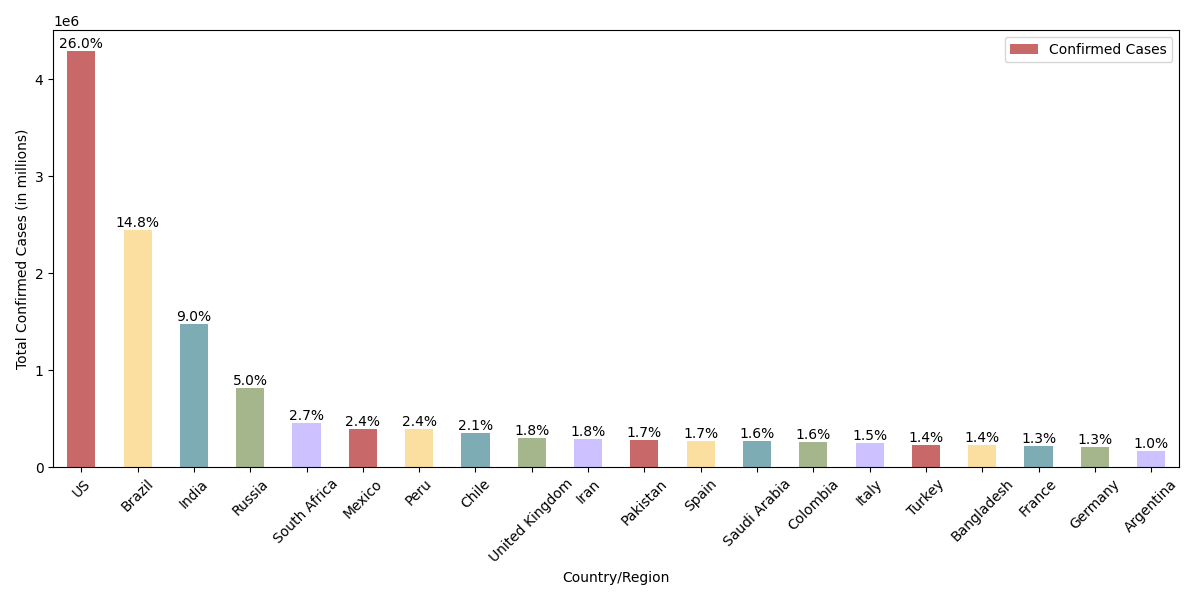
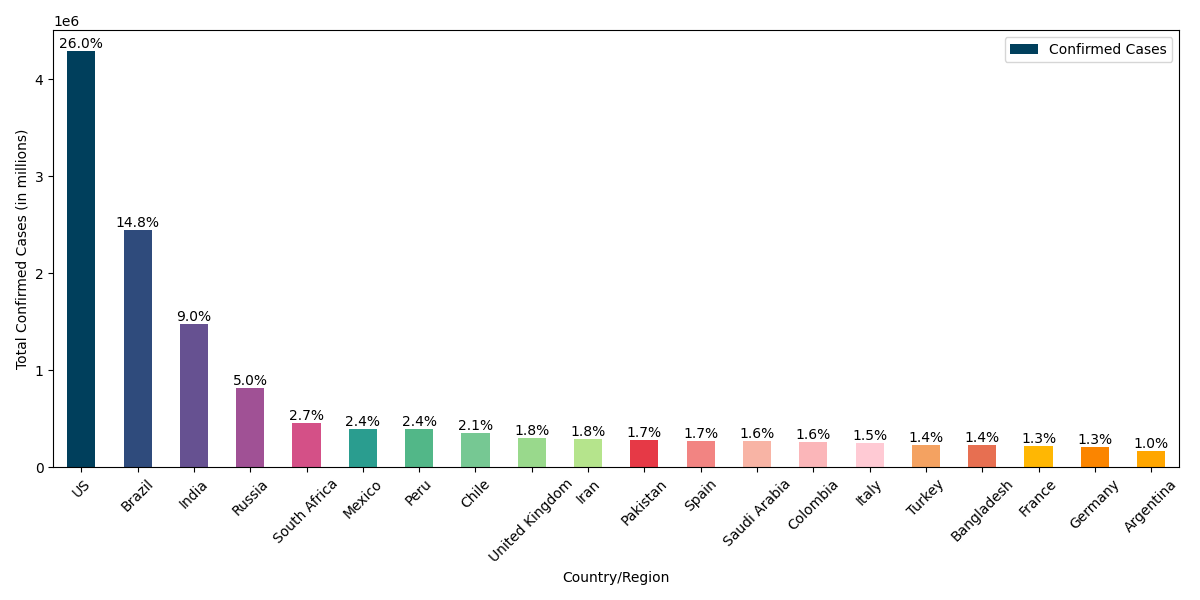
nsp

Changed region(s): [[0.0308, 0.09, 0.9867, 0.78], [0.8325, 0.06, 0.8633, 0.09]]

diff --git a/templates/analysis.html b/templates/analysis.html
@@ -21,6 +21,31 @@
         <div class="chart-container">
             <img src="{{ url_for('static', filename='top_20_countries.png') }}" alt="Top 20 Countries Affected by COVID-19" />
         </div>
+        
+        <h2 style="color: #446878;">Top 20 Countries Affected by COVID-19 (Deaths)</h2>
+        <div class="chart-container">
+            <img src="{{ url_for('static', filename='top_20_countries_deaths.png') }}" alt="Top 20 Countries Affected by COVID-19 (Deaths)" />
+        </div>
+
+        <h2 style="color: #446878;">Top 20 Countries Affected by COVID-19 (Recovered)</h2>
+        <div class="chart-container">
+            <img src="{{ url_for('static', filename='top_20_countries_recovered.png') }}" alt="Top 20 Countries Affected by COVID-19 (Recovered)" />
+        </div>
+
+        <h2 style="color: #446878;">Top 20 Countries Affected by COVID-19 (Deaths / 100 Cases)</h2>
+        <div class="chart-container">
+            <img src="{{ url_for('static', filename='top_20_countries_deaths_per_100_cases.png') }}" alt="Top 20 Countries Affected by COVID-19 (Deaths / 100 Cases)" />
+        </div>
+
+        <h2 style="color: #446878;">Top 20 Countries Affected by COVID-19 (Recovered / 100 Cases)</h2>
+        <div class="chart-container">
+            <img src="{{ url_for('static', filename='top_20_countries_recovered_per_100_cases.png') }}" alt="Top 20 Countries Affected by COVID-19 (Recovered / 100 Cases)" />
+        </div>
+
+        <h2 style="color: #446878;">Top 20 Countries Affected by COVID-19 (Deaths / 100 Recovered)</h2>
+        <div class="chart-container">
+            <img src="{{ url_for('static', filename='top_20_countries_deaths_per_100_recovered.png') }}" alt="Top 20 Countries Affected by COVID-19 (Deaths / 100 Recovered)" />
+        </div>
 
         <h2 style="color: #446878;">Impact of COVID-19 on Liver Cancer</h2>
         <div class="chart-container">

diff --git a/app.py b/app.py
@@ -24,7 +24,7 @@ matplotlib.use('Agg')
 def plot_top_countries():
     plt.figure(figsize=(12, 6))
     top_20 = covid_data.groupby('Country/Region')['Confirmed'].sum().sort_values(ascending=False).head(20)
-    ax = top_20.plot(kind='bar', color=['#C96868','#FADFA1','#7EACB5','#A5B68D','#CDC1FF'])
+    ax = top_20.plot(kind='bar', color=['#003f5c', '#2f4b7c', '#665191', '#a05195', '#d45087', '#2a9d8f', '#52b788', '#76c893', '#99d98c', '#b5e48c', '#e63946', '#f28482', '#f8b4a5', '#fbb6b9', '#ffcad4', '#f4a261', '#e76f51', '#ffb703', '#fb8500', '#ffa600'])
 
     # Add percentage on top of bars
     for p in ax.patches:
@@ -39,6 +39,106 @@ def plot_top_countries():
     plt.legend(['Confirmed Cases'], loc='upper right')  # Move scale to top-right
     plt.tight_layout()
     plt.savefig('static/top_20_countries.png')
+    plt.close()
+
+def plot_top_countries_deaths():
+    plt.figure(figsize=(12, 6))
+    top_20 = covid_data.groupby('Country/Region')['Deaths'].sum().sort_values(ascending=False).head(20)
+    ax = top_20.plot(kind='bar', color=['#1f77b4', '#ff7f0e', '#2ca02c', '#d62728', '#9467bd', '#8c564b', '#e377c2', '#7f7f7f', '#bcbd22', '#17becf', '#ff6347', '#4682b4', '#32cd32', '#ffd700', '#da70d6', '#8b0000', '#00ced1', '#ff69b4', '#6495ed', '#ff4500'])
+
+    # Add percentage on top of bars
+    for p in ax.patches:
+        percentage = '{:.1f}%'.format((p.get_height() / covid_data['Deaths'].sum()) * 100)
+        ax.annotate(percentage, (p.get_x() + p.get_width() / 2, p.get_height()), 
+                    ha='center', va='bottom')
+
+    # Set labels and title
+    plt.xlabel('Country/Region')
+    plt.ylabel('Total Deaths (in millions)')
+    plt.xticks(rotation=45)
+    plt.legend(['Deaths'], loc='upper right')  # Move scale to top-right
+    plt.tight_layout()
+    plt.savefig('static/top_20_countries_deaths.png')
+    plt.close()
+
+def plot_top_countries_recovered():
+    plt.figure(figsize=(12, 6))
+    top_20 = covid_data.groupby('Country/Region')['Recovered'].sum().sort_values(ascending=False).head(20)
+    ax = top_20.plot(kind='bar', color=['#556b2f', '#ff8c00', '#9932cc', '#8b4513', '#ff1493', '#00fa9a', '#8a2be2', '#5f9ea0', '#7cfc00', '#dc143c', '#b8860b', '#4169e1', '#ffdead', '#ff4500', '#2e8b57', '#ffa07a', '#20b2aa', '#ba55d3', '#ff6347', '#6a5acd'])
+
+    # Add percentage on top of bars
+    for p in ax.patches:
+        percentage = '{:.1f}%'.format((p.get_height() / covid_data['Recovered'].sum()) * 100)
+        ax.annotate(percentage, (p.get_x() + p.get_width() / 2, p.get_height()), 
+                    ha='center', va='bottom')
+
+    # Set labels and title
+    plt.xlabel('Country/Region')
+    plt.ylabel('Total Recovered Cases (in millions)')
+    plt.xticks(rotation=45)
+    plt.legend(['Recovered Cases'], loc='upper right')  # Move scale to top-right
+    plt.tight_layout()
+    plt.savefig('static/top_20_countries_recovered.png')
+    plt.close()
+
+def plot_top_countries_death_per_100_cases():
+    plt.figure(figsize=(12, 6))
+    top_20 = covid_data.groupby('Country/Region')['Deaths / 100 Cases'].sum().sort_values(ascending=False).head(20)
+    ax = top_20.plot(kind='bar', color=['#1f77b4', '#ff7f0e', '#2ca02c', '#d62728', '#9467bd', '#8c564b', '#e377c2', '#7f7f7f', '#bcbd22', '#17becf', '#ff6347', '#4682b4', '#32cd32', '#ffd700', '#da70d6', '#8b0000', '#00ced1', '#ff69b4', '#6495ed', '#ff4500'])
+
+    # Add percentage on top of bars
+    for p in ax.patches:
+        percentage = '{:.1f}%'.format((p.get_height() / covid_data['Deaths / 100 Cases'].sum()) * 100)
+        ax.annotate(percentage, (p.get_x() + p.get_width() / 2, p.get_height()), 
+                    ha='center', va='bottom')
+
+    # Set labels and title
+    plt.xlabel('Country/Region')
+    plt.ylabel('Total Deaths / 100 Cases')
+    plt.xticks(rotation=45)
+    plt.legend(['Deaths / 100 Cases'], loc='upper right')  # Move scale to top-right
+    plt.tight_layout()
+    plt.savefig('static/top_20_countries_deaths_per_100_cases.png')
+    plt.close()
+
+def plot_top_countries_recovered_per_100_cases():
+    plt.figure(figsize=(12, 6))
+    top_20 = covid_data.groupby('Country/Region')['Recovered / 100 Cases'].sum().sort_values(ascending=False).head(20)
+    ax = top_20.plot(kind='bar', color=['#1f77b4', '#ff7f0e', '#2ca02c', '#d62728', '#9467bd', '#8c564b', '#e377c2', '#7f7f7f', '#bcbd22', '#17becf', '#ff6347', '#4682b4', '#32cd32', '#ffd700', '#da70d6', '#8b0000', '#00ced1', '#ff69b4', '#6495ed', '#ff4500'])
+
+    # Add percentage on top of bars
+    for p in ax.patches:
+        percentage = '{:.1f}%'.format((p.get_height() / covid_data['Recovered / 100 Cases'].sum()) * 100)
+        ax.annotate(percentage, (p.get_x() + p.get_width() / 2, p.get_height()), 
+                    ha='center', va='bottom')
+
+    # Set labels and title
+    plt.xlabel('Country/Region')
+    plt.ylabel('Total Recovered / 100 Cases')
+    plt.xticks(rotation=45)
+    plt.legend(['Recovered / 100 Cases'], loc='upper right')  # Move scale to top-right
+    plt.tight_layout()
+    plt.savefig('static/top_20_countries_recovered_per_100_cases.png')
+    plt.close()
+
+def plot_top_countries_deaths_per_100_cases():
+    plt.figure(figsize=(12, 6))
+    top_20 = covid_data.groupby('Country/Region')['Deaths / 100 Recovered'].sum().sort_values(ascending=False).head(20)
+    ax = top_20.plot(kind='bar', color=['#556b2f', '#ff8c00', '#9932cc', '#8b4513', '#ff1493', '#00fa9a', '#8a2be2', '#5f9ea0', '#7cfc00', '#dc143c', '#b8860b', '#4169e1', '#ffdead', '#ff4500', '#2e8b57', '#ffa07a', '#20b2aa', '#ba55d3', '#ff6347', '#6a5acd'])
+
+    # Add percentage on top of bars
+    for p in ax.patches:
+        percentage = '{:.1f}%'.format((p.get_height() / covid_data['Deaths / 100 Recovered'].sum()) * 100)
+        ax.annotate(percentage, (p.get_x() + p.get_width() / 2, p.get_height()), 
+                    ha='center', va='bottom')
+
+    # Set labels and title
+    plt.xlabel('Country/Region')
+    plt.ylabel('Total Deaths / 100 Recovered')
+    plt.xticks(rotation=45)
+    plt.legend(['Deaths / 100 Recovered'], loc='upper right')  # Move scale to top-right
+    plt.tight_layout()
+    plt.savefig('static/top_20_countries_deaths_per_100_recovered.png')
     plt.close()
 
 # Function to analyze liver cancer data
@@ -86,7 +186,7 @@ def plot_education_impact():
 def plot_vaccination_status():
     plt.figure(figsize=(10, 6))
     top_20_vaccinations = vaccination_data.groupby('country')['total_vaccinations'].sum().sort_values(ascending=False).head(20)
-    ax = top_20_vaccinations.plot(kind='bar', color=['#C96868','#FADFA1','#7EACB5','#A5B68D','#CDC1FF'])
+    ax = top_20_vaccinations.plot(kind='bar', color=['#556b2f', '#ff8c00', '#9932cc', '#8b4513', '#ff1493', '#00fa9a', '#8a2be2', '#5f9ea0', '#7cfc00', '#dc143c', '#b8860b', '#4169e1', '#ffdead', '#ff4500', '#2e8b57', '#ffa07a', '#20b2aa', '#ba55d3', '#ff6347', '#6a5acd'])
 
     # Add percentage on top of bars
     total_vaccinations = vaccination_data['total_vaccinations'].sum()
